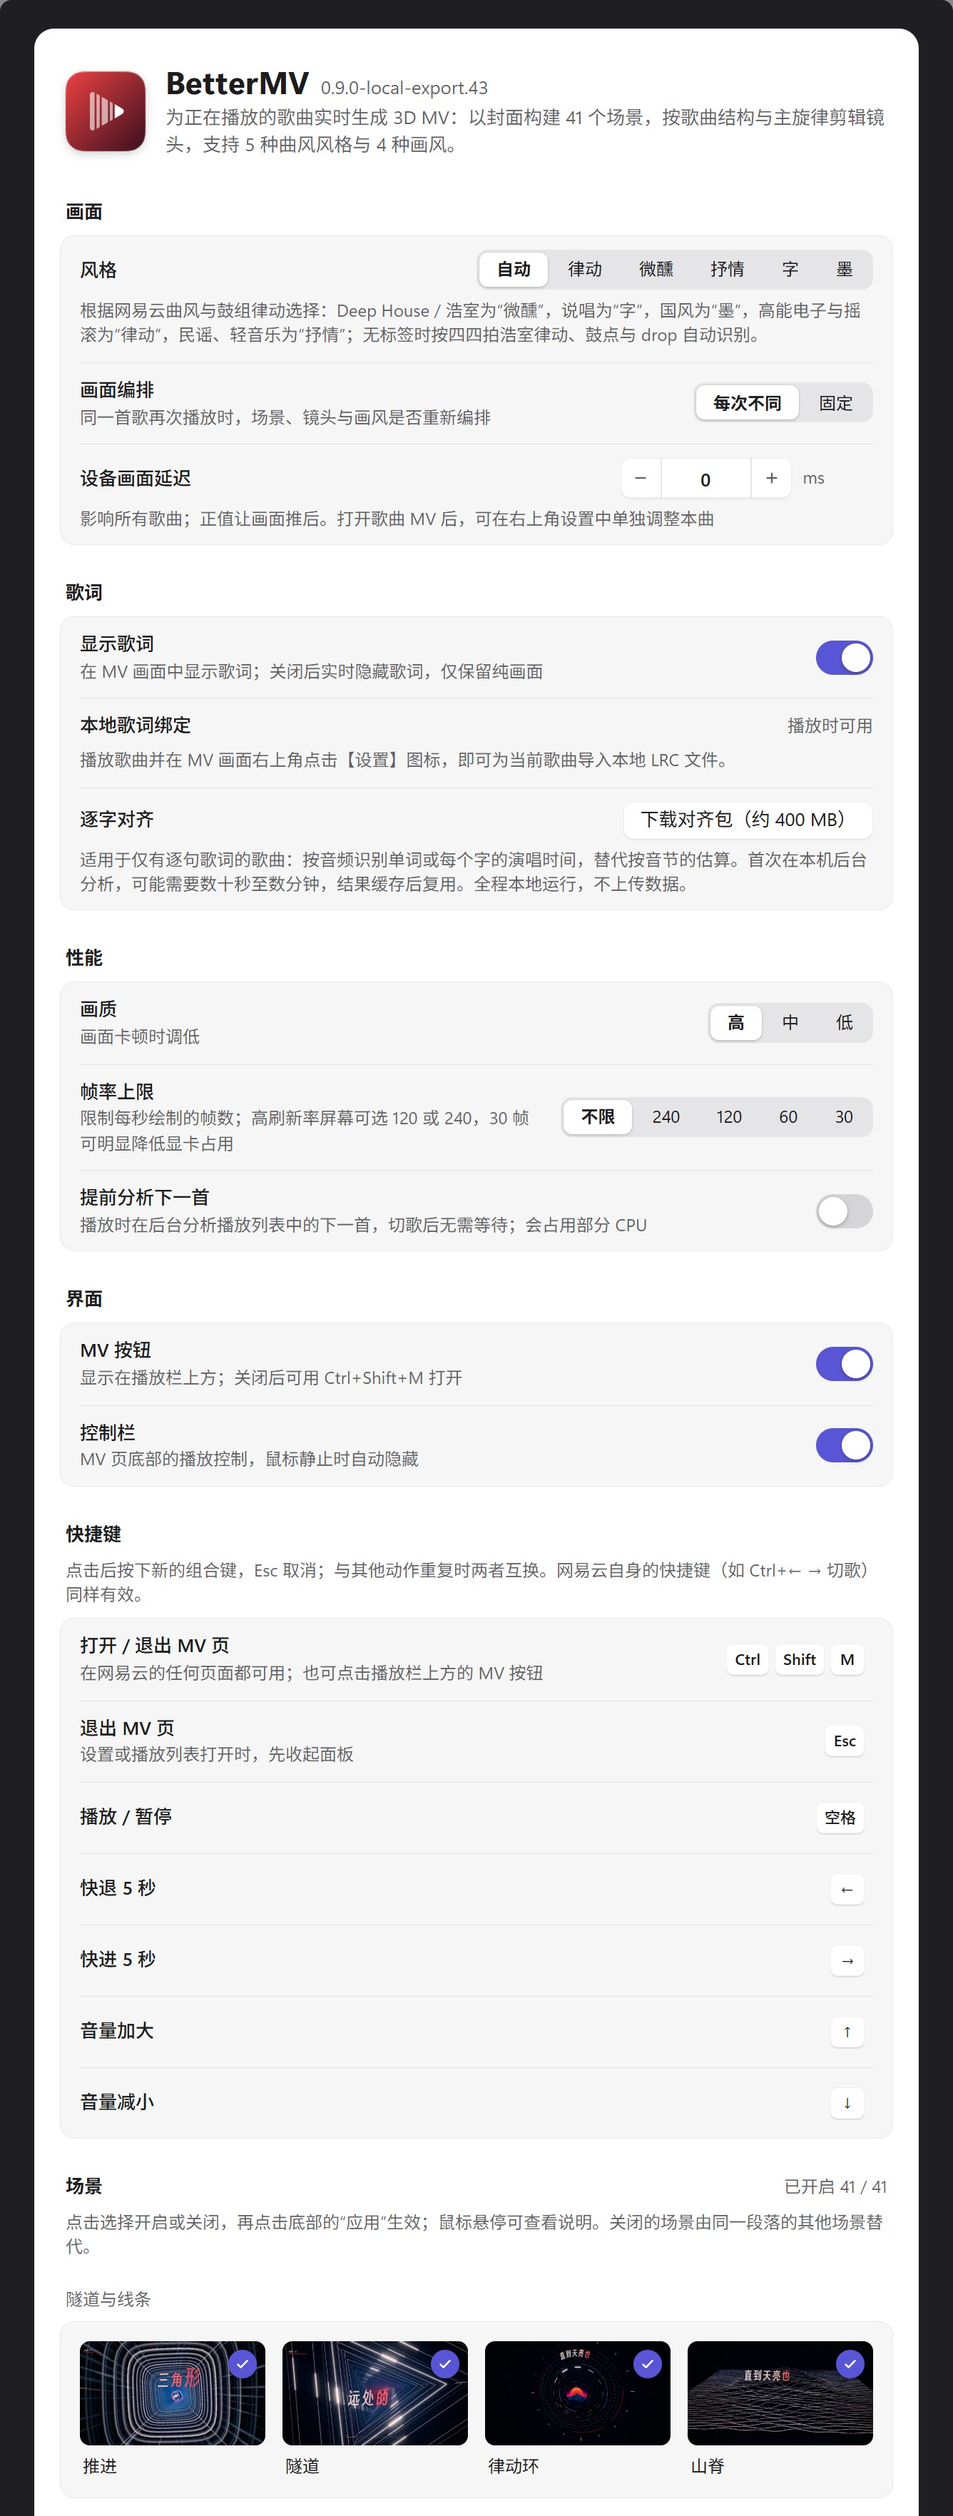
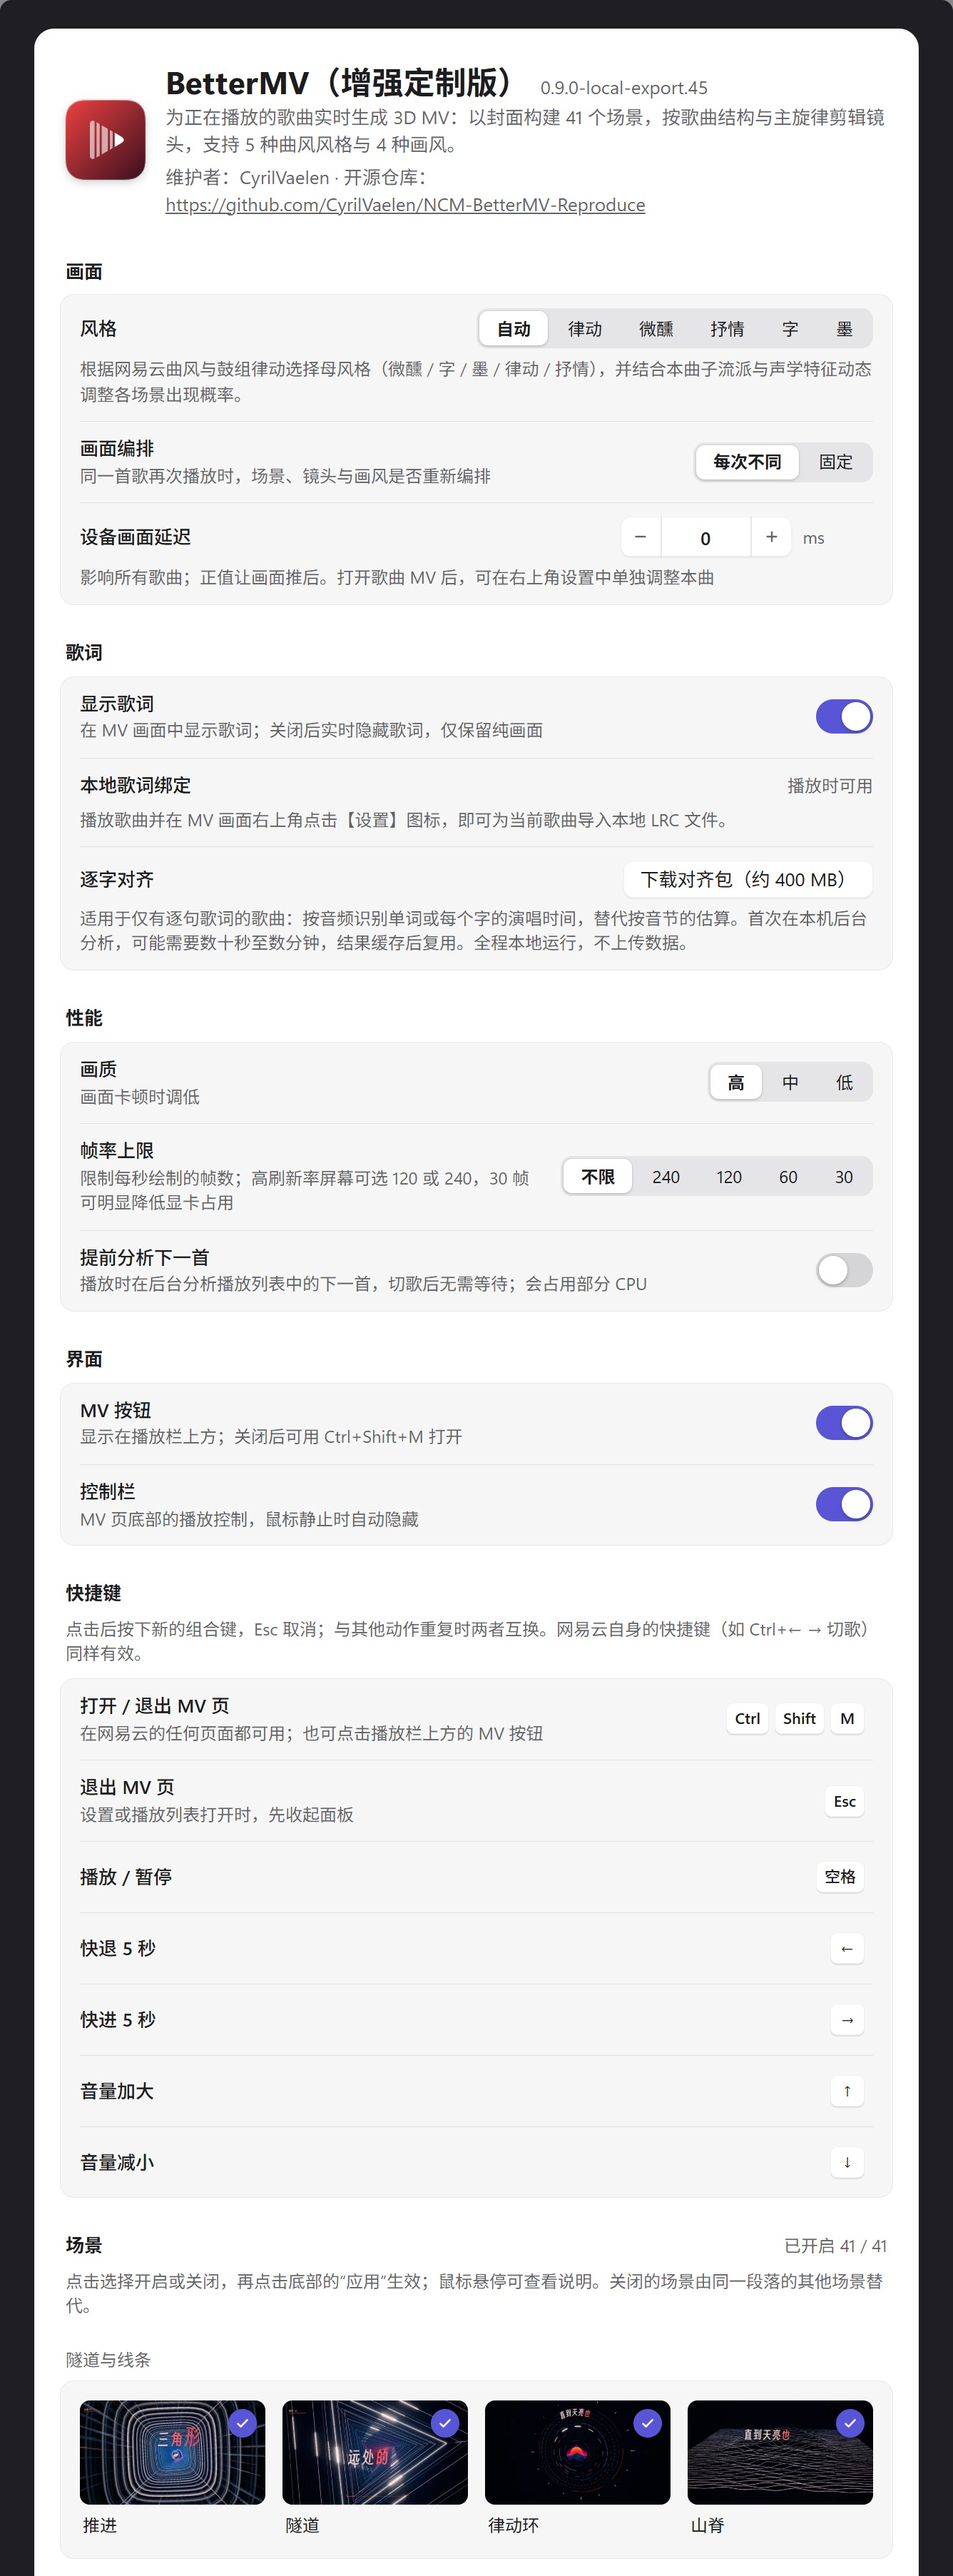
feat(v0.9.0-local-export.45): 更新插件清单与设置页为改编版专属版本号、维护者与开源仓库地址

diff --git a/src/plugin/ui.ts b/src/plugin/ui.ts
@@ -603,7 +603,20 @@ export class Overlay {
     if (which === 'settings') {
       this.panelTitle.textContent = '设置';
       this.panelAside.innerHTML = appIcon(18);
-      this.panelAside.append(VERSION ? `BetterMV ${VERSION}` : 'BetterMV');
+      const repoLink = el('a', '', VERSION ? `BetterMV ${VERSION}` : 'BetterMV');
+      repoLink.href = 'https://github.com/CyrilVaelen/NCM-BetterMV-Reproduce';
+      repoLink.target = '_blank';
+      repoLink.rel = 'noopener noreferrer';
+      repoLink.title = '维护者：CyrilVaelen · 开源仓库：https://github.com/CyrilVaelen/NCM-BetterMV-Reproduce';
+      repoLink.style.color = 'inherit';
+      repoLink.style.textDecoration = 'none';
+      repoLink.onclick = e => {
+        if (typeof betterncm !== 'undefined' && betterncm.app?.exec) {
+          e.preventDefault();
+          void betterncm.app.exec('cmd /c start "" "https://github.com/CyrilVaelen/NCM-BetterMV-Reproduce"', false, false);
+        }
+      };
+      this.panelAside.append(repoLink);
       body.append(this.handlers.settings());
     } else if (which === 'export') {
       this.panelTitle.textContent = '导出视频';
@@ -1150,11 +1163,46 @@ export function settingsView(config: Config, onChange: (c: Config) => void, prev
     const mark = el('div', 'bmv-appicon');
     mark.innerHTML = appIcon(56);
     const text = el('div');
-    const name = el('div', 'bmv-set-name', 'BetterMV');
+    const name = el('div', 'bmv-set-name', 'BetterMV（增强定制版）');
     if (VERSION) name.append(el('span', 'bmv-set-ver', VERSION));
-    text.append(name, el('div', 'bmv-set-desc', '为正在播放的歌曲实时生成 3D MV：以封面构建 41 个场景，按歌曲结构与主旋律剪辑镜头，支持 5 种曲风风格与 4 种画风。'));
+    const repoRow = el('div', 'bmv-set-desc');
+    repoRow.style.marginTop = '4px';
+    repoRow.append('维护者：CyrilVaelen · 开源仓库：');
+    const repoLink = el('a', '', 'https://github.com/CyrilVaelen/NCM-BetterMV-Reproduce');
+    repoLink.href = 'https://github.com/CyrilVaelen/NCM-BetterMV-Reproduce';
+    repoLink.target = '_blank';
+    repoLink.rel = 'noopener noreferrer';
+    repoLink.style.color = 'inherit';
+    repoLink.style.textDecoration = 'underline';
+    repoLink.style.whiteSpace = 'nowrap';
+    repoLink.onclick = e => {
+      if (typeof betterncm !== 'undefined' && betterncm.app?.exec) {
+        e.preventDefault();
+        void betterncm.app.exec('cmd /c start "" "https://github.com/CyrilVaelen/NCM-BetterMV-Reproduce"', false, false);
+      }
+    };
+    repoRow.append(repoLink);
+    text.append(name, el('div', 'bmv-set-desc', '为正在播放的歌曲实时生成 3D MV：以封面构建 41 个场景，按歌曲结构与主旋律剪辑镜头，支持 5 种曲风风格与 4 种画风。'), repoRow);
     head.append(mark, text);
     view.append(head);
+  } else {
+    const compactMeta = el('div', 'bmv-sec-note');
+    compactMeta.style.margin = '0 0 10px';
+    compactMeta.append('维护者：CyrilVaelen · 仓库：');
+    const compactLink = el('a', '', 'CyrilVaelen/NCM-BetterMV-Reproduce');
+    compactLink.href = 'https://github.com/CyrilVaelen/NCM-BetterMV-Reproduce';
+    compactLink.target = '_blank';
+    compactLink.rel = 'noopener noreferrer';
+    compactLink.style.color = 'inherit';
+    compactLink.style.textDecoration = 'underline';
+    compactLink.onclick = e => {
+      if (typeof betterncm !== 'undefined' && betterncm.app?.exec) {
+        e.preventDefault();
+        void betterncm.app.exec('cmd /c start "" "https://github.com/CyrilVaelen/NCM-BetterMV-Reproduce"', false, false);
+      }
+    };
+    compactMeta.append(compactLink);
+    view.append(compactMeta);
   }
 
   /** A titled section; returns the place for its rows (a rounded group) unless `bare`. */

diff --git a/README.md b/README.md
@@ -13,7 +13,7 @@
 
 </div>
 
-> **版本说明**：本仓库为 [**CyrilVaelen**](https://github.com/CyrilVaelen) 基于开源插件 BetterMV 进行多轮深度重构、场景扩充与管线提速的个人改进版本（当前版本 `0.9.0-local-export.43`）。推送代码后由 GitHub Actions 自动编译并实时更新至本仓库 [Releases 最新版](https://github.com/CyrilVaelen/NCM-BetterMV-Reproduce/releases/latest)。
+> **版本说明**：本仓库为 [**CyrilVaelen**](https://github.com/CyrilVaelen) 基于开源插件 BetterMV 进行多轮深度重构、场景扩充与管线提速的个人改进版本（当前版本 `0.9.0-local-export.45`）。推送代码后由 GitHub Actions 自动编译并实时更新至本仓库 [Releases 最新版](https://github.com/CyrilVaelen/NCM-BetterMV-Reproduce/releases/latest)。
 
 ## 核心功能与定制增强
 
@@ -107,8 +107,8 @@ npm run pack             # 标准打包输出至 dist/ncm-better-mv.plugin
 
 架构设计、音频分析与验证记录详见 [docs/](docs/) 与 [STATUS.md](STATUS.md)。
 
-## 开源协议与作者致谢
+## 开源协议与仓库信息
 
 - **开源协议**：遵循 `GPL-3.0-or-later` 协议开源（详见 [LICENSE](LICENSE)）。内置字体 Archivo、Bodoni Moda、Cormorant Garamond、得意黑（Smiley Sans）、霞鹜文楷 Lite 均遵循 SIL Open Font License 1.1（`public/fonts/OFL.txt`）；打包内置的 `three.js` 使用 MIT 协议；可选对齐包中的 MMS-FA 模型来自 Meta（CC BY-NC 4.0，不可商用）。
-- **改进版开发与维护**：[**CyrilVaelen**](https://github.com/CyrilVaelen)（源码与构建发布仓库：[CyrilVaelen/NCM-BetterMV-Reproduce](https://github.com/CyrilVaelen/NCM-BetterMV-Reproduce)）
-- **原版作者与致谢**：基于原作者 [**XIAOMING6680**](https://github.com/xiaoming6680) 开发的开源项目 BetterMV 进行深度定制与扩展。插件标识为 `ncm-better-mv`。
+- **改进版开发与维护**：[**CyrilVaelen**](https://github.com/CyrilVaelen)
+- **开源仓库地址**：[https://github.com/CyrilVaelen/NCM-BetterMV-Reproduce](https://github.com/CyrilVaelen/NCM-BetterMV-Reproduce)（插件标识 `ncm-better-mv`，基于开源项目 BetterMV 进行多轮定制重构与扩展）

diff --git a/docs/PUBLISHING.md b/docs/PUBLISHING.md
@@ -1,6 +1,6 @@
 # BetterMV 发布流程
 
-源码仓库：[CyrilVaelen/NCM-BetterMV-Reproduce](https://github.com/CyrilVaelen/NCM-BetterMV-Reproduce)。维护与改进作者：[CyrilVaelen](https://github.com/CyrilVaelen)（基于原作者 [XIAOMING6680](https://github.com/xiaoming6680) 开源项目深度定制）。
+源码仓库：[CyrilVaelen/NCM-BetterMV-Reproduce](https://github.com/CyrilVaelen/NCM-BetterMV-Reproduce)。维护与改进作者：[CyrilVaelen](https://github.com/CyrilVaelen)。
 
 ## 构建与发布
 
